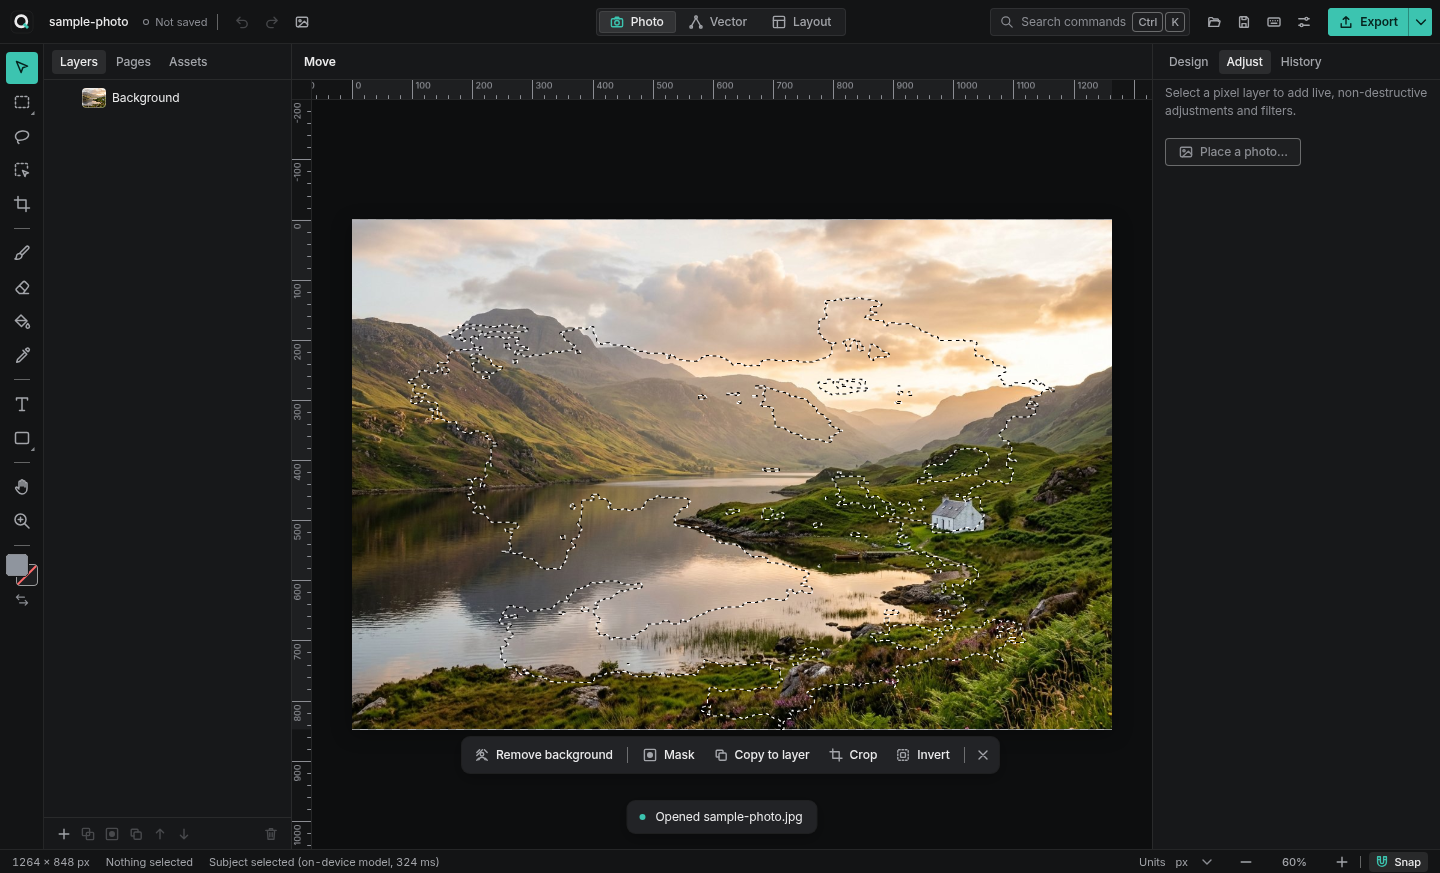
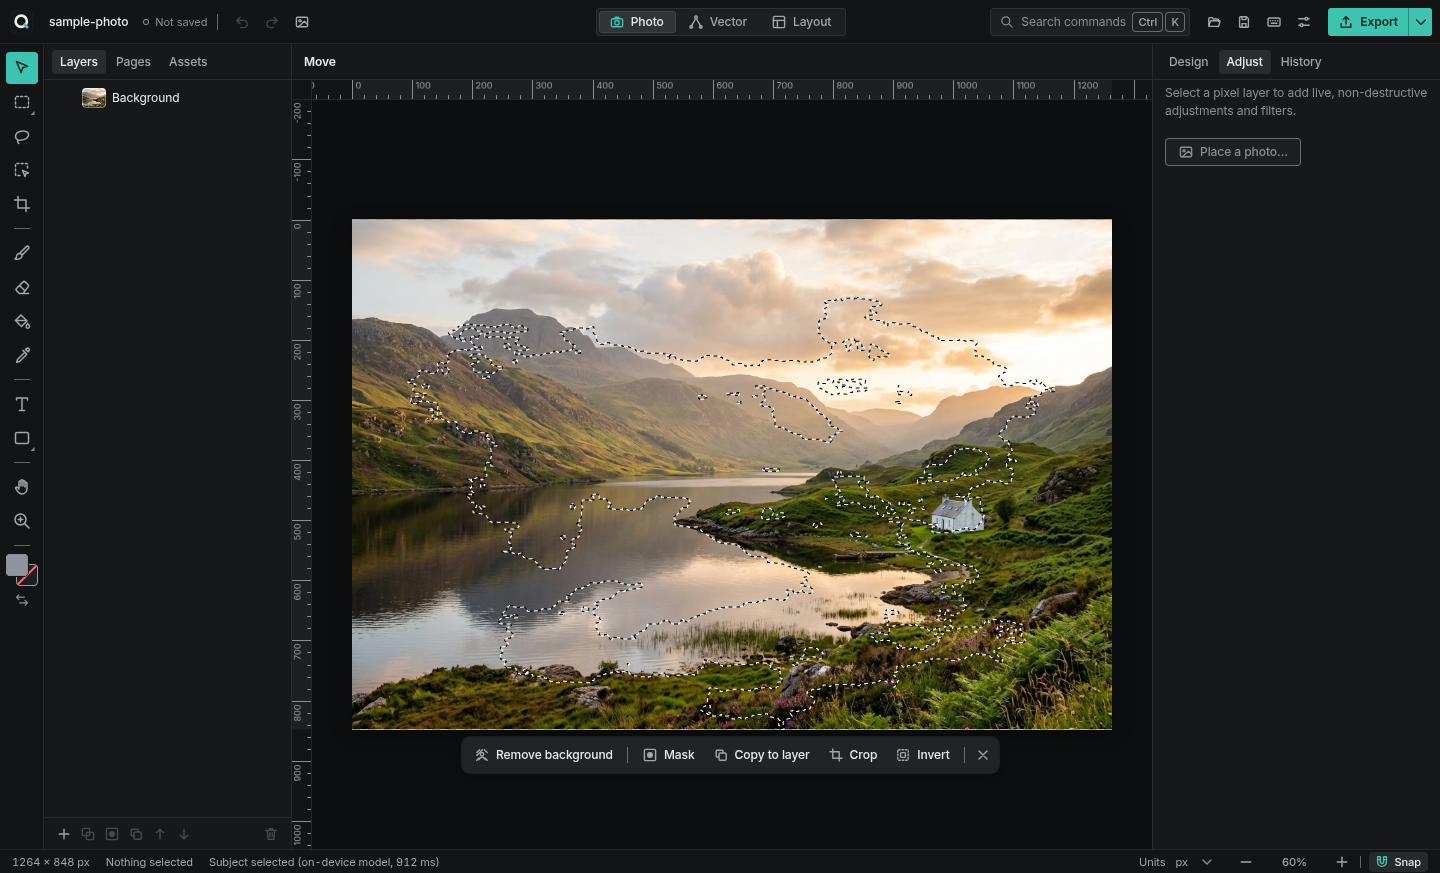
Critique-3 fixes: themed scrollbars (no native arrows), one Curves reset, Layout context bar no longer overflows, HC flyout checked vs focus, crop/click marker use theme handle tokens, crop shades image only, templates fit their text + overflow test

Changed region(s): [[0.4375, 0.9278, 0.5625, 0.9588], [0.3125, 0.3711, 0.375, 0.4021]]

diff --git a/src/renderer/engine/tools.ts b/src/renderer/engine/tools.ts
@@ -21,11 +21,11 @@ import {
 import { drawPage } from './draw';
 import { runCommand } from '../state/commands';
 import {
-  CROP_HANDLES, cursorFor, handlePoints, hitCrop, moveWithin, rectFromDrag, resizeCrop, roundCrop, type CropHit, type CropRect,
+  cursorFor, hitCrop, moveWithin, rectFromDrag, resizeCrop, roundCrop, type CropHit, type CropRect,
 } from '../../core/crop';
 import { currentCrop, currentRatio, docBounds, setCropBox } from '../state/crop';
 import { uiPaint } from '../state/uiPaint';
-import { HANDLE_SIZE, SELECTION_COLOR } from './controls';
+import { HANDLE_SIZE } from './controls';
 import { objectSelectClick, objectSelectMarkers } from './objectSelect';
 
 export interface ToolContext {
@@ -846,7 +846,9 @@ class CropTool implements Tool {
     ctx.save();
     ctx.fillStyle = this.drag ? 'rgba(0,0,0,0.42)' : 'rgba(0,0,0,0.58)';
     const p = new Path2D();
-    p.rect(-1e5, -1e5, 2e5, 2e5);
+    // shade the image outside the box only; the pasteboard stays untouched
+    const page = docBounds() ?? { x: -1e5, y: -1e5, w: 2e5, h: 2e5 };
+    p.rect(page.x, page.y, page.w, page.h);
     p.rect(r.x, r.y, r.w, r.h);
     ctx.fill(p, 'evenodd');
     const overlay = this.c.editor.ui.toolOptions.cropOverlay;
@@ -888,33 +890,42 @@ class CropTool implements Tool {
     ctx.lineWidth = 1;
     ctx.strokeStyle = 'rgba(0,0,0,0.35)';
     ctx.strokeRect(x0 - 1, y0 - 1, x1 - x0 + 2, y1 - y0 + 2);
-    ctx.strokeStyle = '#ffffff';
+    const oc = vp.overlayColors;
+    ctx.strokeStyle = oc.ring;
     ctx.strokeRect(x0, y0, x1 - x0, y1 - y0);
-    // Lightroom-style corner brackets make the corners read as grabbable
+    // one handle vocabulary (theme handle token): L-brackets on the corners, short bars on the edges
     const L = Math.min(16, (x1 - x0) / 3, (y1 - y0) / 3);
-    ctx.lineWidth = 3;
+    const bar = (cx: number, cy: number, horizontal: boolean) => {
+      const len = 12;
+      const th = 3;
+      const w = horizontal ? len : th;
+      const h = horizontal ? th : len;
+      ctx.fillStyle = oc.ring;
+      ctx.fillRect(Math.round(cx - w / 2) - 1, Math.round(cy - h / 2) - 1, w + 2, h + 2);
+      ctx.fillStyle = oc.handle;
+      ctx.fillRect(Math.round(cx - w / 2), Math.round(cy - h / 2), w, h);
+    };
     ctx.lineCap = 'butt';
-    ctx.beginPath();
     for (const [cx, cy, sx, sy] of [[x0, y0, 1, 1], [x1, y0, -1, 1], [x1, y1, -1, -1], [x0, y1, 1, -1]]) {
-      ctx.moveTo(cx - sx * 1, cy + sy * L);
-      ctx.lineTo(cx - sx * 1, cy - sy * 1);
-      ctx.lineTo(cx + sx * L, cy - sy * 1);
+      ctx.beginPath();
+      ctx.moveTo(cx - sx, cy + sy * L);
+      ctx.lineTo(cx - sx, cy - sy);
+      ctx.lineTo(cx + sx * L, cy - sy);
+      ctx.lineWidth = 5;
+      ctx.strokeStyle = oc.ring;
+      ctx.stroke();
+      ctx.lineWidth = 3;
+      ctx.strokeStyle = oc.handle;
+      ctx.stroke();
     }
-    ctx.stroke();
-    // 8 square handles, as the selection chrome (DESIGN.md section 8)
-    const pts = handlePoints({ x: a.x, y: a.y, w: b.x - a.x, h: b.y - a.y });
-    const half = (HANDLE_SIZE - 1) / 2;
     ctx.lineWidth = 1;
-    ctx.strokeStyle = SELECTION_COLOR;
-    ctx.fillStyle = '#ffffff';
-    for (const h of CROP_HANDLES) {
-      if ((h === 'n' || h === 's') && x1 - x0 < HANDLE_SIZE * 4) continue;
-      if ((h === 'e' || h === 'w') && y1 - y0 < HANDLE_SIZE * 4) continue;
-      const q = pts[h];
-      const x = Math.round(q.x) - half + 0.5;
-      const y = Math.round(q.y) - half + 0.5;
-      ctx.fillRect(x, y, HANDLE_SIZE - 1, HANDLE_SIZE - 1);
-      ctx.strokeRect(x, y, HANDLE_SIZE - 1, HANDLE_SIZE - 1);
+    if (x1 - x0 >= HANDLE_SIZE * 4) {
+      bar((x0 + x1) / 2, y0, true);
+      bar((x0 + x1) / 2, y1, true);
+    }
+    if (y1 - y0 >= HANDLE_SIZE * 4) {
+      bar(x0, (y0 + y1) / 2, false);
+      bar(x1, (y0 + y1) / 2, false);
     }
     if (this.drag) {
       const q = roundCrop(r);
@@ -924,11 +935,11 @@ class CropTool implements Tool {
       const tw = ctx.measureText(label).width + 12;
       const cx = (x0 + x1) / 2;
       const by = Math.min(y1 + 10, vp.canvas.getHeight() - 24);
-      ctx.fillStyle = SELECTION_COLOR;
+      ctx.fillStyle = oc.handle;
       ctx.beginPath();
       ctx.roundRect(Math.round(cx - tw / 2), Math.round(by), Math.round(tw), 18, 4);
       ctx.fill();
-      ctx.fillStyle = '#06231e';
+      ctx.fillStyle = oc.ring === '#000000' ? '#000000' : '#06231e';
       ctx.textAlign = 'center';
       ctx.textBaseline = 'middle';
       ctx.fillText(label, Math.round(cx), Math.round(by) + 9.5);
@@ -986,14 +997,15 @@ class ObjectSelectTool implements Tool {
     if (!marks.length) return;
     const vp = this.c.viewport;
     ctx.save();
+    const oc = vp.overlayColors;
     for (const m of marks) {
       const q = vp.sceneToScreen(m.x, m.y);
       ctx.beginPath();
       ctx.arc(Math.round(q.x) + 0.5, Math.round(q.y) + 0.5, 4.5, 0, Math.PI * 2);
-      ctx.fillStyle = m.positive ? SELECTION_COLOR : '#ff6b4a';
+      ctx.fillStyle = m.positive ? oc.handle : '#ff6b4a';
       ctx.fill();
       ctx.lineWidth = 1.5;
-      ctx.strokeStyle = '#ffffff';
+      ctx.strokeStyle = oc.ring;
       ctx.stroke();
     }
     ctx.restore();

diff --git a/src/core/templates.ts b/src/core/templates.ts
@@ -111,7 +111,7 @@ function poster(size: { w: number; h: number }, unit: 'mm' | 'in', title: string
     b.frame(p, x, H * 0.07, W - 2 * x, 24, 'NORTHFIELD ACADEMY PRESENTS', { fontFamily: SANS, fontSize: W * 0.022, fontWeight: 600, letterSpacing: 120, fill: solid('#aab4c8') });
     b.frame(p, x, H * 0.2, W - 2 * x, H * 0.34, 'Year 8\nScience\nFair', { fontFamily: SANS, fontSize: W * 0.135, fontWeight: 700, lineHeight: 0.98, fill: solid('#ffffff') });
     b.rect(p, x, H * 0.6 - 8, W * 0.18, 16, solid(CORAL), { name: 'Rule' });
-    b.frame(p, x, H * 0.65, W - 2 * x, H * 0.05, 'Thursday 14 March', { fontFamily: SANS, fontSize: W * 0.055, fontWeight: 700, fill: solid(NAVY) });
+    b.frame(p, x, H * 0.65, W - 2 * x, H * 0.058, 'Thursday 14 March', { fontFamily: SANS, fontSize: W * 0.055, fontWeight: 700, fill: solid(NAVY) });
     b.frame(p, x, H * 0.71, W - 2 * x, H * 0.035, '3:30 – 5:30 pm  ·  Main Hall', { fontFamily: SANS, fontSize: W * 0.032, fill: solid(NAVY) });
     b.frame(p, x, H * 0.77, W * 0.62, H * 0.12, 'Thirty projects from Year 8, from water filters to wind turbines. Families are welcome; judging starts at 5 pm.', { fontFamily: SANS, fontSize: W * 0.024, lineHeight: 1.45, fill: solid(INK_2) });
     b.line(p, x, H - M * 2 - 30, W - x, H - M * 2 - 30, '#c9c3b6', 1);
@@ -170,7 +170,7 @@ function certificate(): QuvreloDocument {
   b.frame(p, 80, 96, W - 160, 20, 'NORTHFIELD ACADEMY', { fontFamily: SANS, fontSize: 13, fontWeight: 600, letterSpacing: 200, align: 'center', fill: solid(GOLD) });
   b.frame(p, 80, 128, W - 160, 64, 'Certificate of Achievement', { fontFamily: SERIF, fontSize: 48, align: 'center', fill: solid(NAVY) });
   b.frame(p, 80, 214, W - 160, 28, 'awarded to', { fontFamily: SERIF, fontSize: 18, italic: true, align: 'center', fill: solid(INK_2) });
-  b.frame(p, 80, 250, W - 160, 64, 'Alex Morgan', { fontFamily: SERIF, fontSize: 50, align: 'center', fill: solid(NAVY) });
+  b.frame(p, 80, 246, W - 160, 72, 'Alex Morgan', { fontFamily: SERIF, fontSize: 50, align: 'center', fill: solid(NAVY) });
   b.line(p, W * 0.3, 326, W * 0.7, 326, GOLD, 1);
   b.frame(p, 140, 344, W - 280, 56, 'for outstanding work in Year 9 Art\nSpring term 2026', { fontFamily: SERIF, fontSize: 17, lineHeight: 1.5, align: 'center', fill: solid(INK_2) });
   b.ellipse(p, W / 2, H - 128, 76, 76, { type: 'none' }, { stroke: makeStroke(GOLD, 1.5), name: 'Seal' });
@@ -238,7 +238,7 @@ function slide(): QuvreloDocument {
   b.rect(p, 0, 0, 1920, 1080, solid('#14171c'), { name: 'Background' });
   b.frame(p, 120, 120, 1200, 40, 'YEAR 9 BIOLOGY  ·  LESSON 4 OF 6', { fontFamily: SANS, fontSize: 26, fontWeight: 600, letterSpacing: 120, fill: solid(AMBER) });
   b.frame(p, 120, 360, 1500, 150, 'Photosynthesis', { fontFamily: SANS, fontSize: 132, fontWeight: 700, lineHeight: 1.0, fill: solid('#f4f4f2') });
-  b.frame(p, 120, 530, 1300, 60, 'How plants turn light, water and carbon dioxide into food', { fontFamily: SANS, fontSize: 40, fill: solid('#a7adb7') });
+  b.frame(p, 120, 530, 1560, 64, 'How plants turn light, water and carbon dioxide into food', { fontFamily: SANS, fontSize: 40, fill: solid('#a7adb7') });
   b.line(p, 120, 900, 1800, 900, '#3a3f48', 2);
   b.frame(p, 120, 930, 900, 40, 'Mr D. Evans  ·  9C', { fontFamily: SANS, fontSize: 26, fill: solid('#a7adb7') });
   b.frame(p, 1000, 930, 800, 40, 'Tuesday 3 November', { fontFamily: SANS, fontSize: 26, align: 'right', fill: solid('#a7adb7') });

diff --git a/src/renderer/ui/ContextBar.tsx b/src/renderer/ui/ContextBar.tsx
@@ -72,8 +72,9 @@ function setDocSettings(patch: Partial<DocumentSettings>, label: string, key: st
 }
 
 /**
- * Layout with nothing selected: page navigation and page setup (margins, bleed,
- * columns, facing pages) right in the context bar, as in a DTP app.
+ * Layout with nothing selected: page navigation, margins and the facing-pages
+ * toggle in the context bar. Bleed, columns and gutter live in Document setup so
+ * the bar never overflows (CRITIQUE-3 N2).
  */
 function LayoutPageControls() {
   const ed = useEditor();
@@ -98,13 +99,8 @@ function LayoutPageControls() {
         <UnitNum label="R" title={s.facingPages ? 'Outside margin' : 'Right margin'} px={m.right} onChange={setMargin('right')} />
       </div>
       <div className="group">
-        <UnitNum label="Bleed" title="Bleed" px={s.bleed} onChange={(v) => setDocSettings({ bleed: v }, 'Bleed', 'bleed')} />
-        <CountNum label="Columns" title="Columns" value={s.columns} onChange={(v) => setDocSettings({ columns: v }, 'Columns', 'columns')} />
-        <UnitNum label="Gutter" title="Column gutter" px={s.columnGutter} onChange={(v) => setDocSettings({ columnGutter: v }, 'Gutter', 'gutter')} />
         <button className={`btn ${s.facingPages ? 'selected' : ''}`} aria-pressed={s.facingPages} data-tip="Show pages as two-page spreads" onClick={() => setDocSettings({ facingPages: !s.facingPages }, 'Facing pages', 'facing')}><Icon name="pages" /> Facing pages</button>
-      </div>
-      <div className="group">
-        <button className="btn" onClick={() => runCommand('file.document-setup')}>Document setup…</button>
+        <button className="btn ghost" data-tip="Bleed, columns and gutter" onClick={() => runCommand('file.document-setup')}>Margins &amp; columns…</button>
       </div>
     </>
   );

diff --git a/src/renderer/styles.css b/src/renderer/styles.css
@@ -882,8 +882,21 @@ kbd {
   font-weight: 400;
 }
 :root[data-theme='high-contrast'] .flyout-item.on {
-  background: #000;
-  box-shadow: inset 0 0 0 2px var(--c-accent);
+  /* checked = filled, focused = outlined: never the same treatment */
+  background: var(--c-accent);
+  color: #000;
+  box-shadow: none;
+}
+:root[data-theme='high-contrast'] .flyout-item.on svg.icon,
+:root[data-theme='high-contrast'] .flyout-item.on kbd {
+  color: #000;
+}
+:root[data-theme='high-contrast'] .flyout-item:focus-visible {
+  outline: 3px solid var(--c-focus);
+  outline-offset: 2px;
+}
+:root[data-theme='high-contrast'] .flyout-item.on:focus-visible {
+  outline-color: #fff;
 }
 @keyframes flyout-in {
   from {
@@ -1229,23 +1242,15 @@ kbd {
 .canvas-area > .ruler.v { grid-area: 2 / 1; }
 .canvas-area > .viewport { grid-area: 2 / 2; }
 
-/* thin, quiet scrollbars */
-* {
-  scrollbar-width: thin;
-  scrollbar-color: var(--c-line-strong) transparent;
-}
-::-webkit-scrollbar {
-  width: 10px;
-  height: 10px;
-}
-::-webkit-scrollbar-thumb {
-  background: var(--c-line-strong);
-  border-radius: var(--r-full);
-  border: 3px solid transparent;
-  background-clip: content-box;
-}
-::-webkit-scrollbar-corner {
-  background: transparent;
+/* Themed scrollbars live in the "scrollbars (themed)" block below. The standard
+   scrollbar-width/-color properties would override ::-webkit-scrollbar in
+   Chromium 121+ and bring back the native arrows, so only engines without the
+   WebKit pseudo-element get them. */
+@supports not selector(::-webkit-scrollbar) {
+  * {
+    scrollbar-width: thin;
+    scrollbar-color: var(--c-line-strong) transparent;
+  }
 }
 
 /* ---------- curves editor ---------- */

diff --git a/tests/unit/templates.test.ts b/tests/unit/templates.test.ts
@@ -3,6 +3,7 @@ import { TEMPLATES } from '../../src/core/templates';
 import { allContainers, findNode, walk } from '../../src/core/document';
 import { pageToSvg } from '../../src/core/svg';
 import { migrateDocument } from '../../src/core/migrate';
+import { flowStory, type MeasureFn } from '../../src/core/textflow';
 
 describe('templates', () => {
   it('has a classroom pack', () => {
@@ -21,6 +22,22 @@ describe('templates', () => {
       });
       for (const s of Object.values(d.stories)) for (const f of s.chain) expect(findNode(d, f)).not.toBeNull();
       for (const p of d.pages) expect(pageToSvg(d, p)).toContain('<svg');
+    });
+  }
+
+  // A bundled template must open without an overflow port. Inter-like metrics: a pessimistic
+  // 0.58 em per character (0.62 for bold) so a pass here also passes with the real font.
+  const measure: MeasureFn = (text, st) => text.length * st.fontSize * (st.fontWeight >= 600 ? 0.62 : 0.58);
+  for (const t of TEMPLATES) {
+    it(`${t.name} has no overflowing text frames`, () => {
+      const d = t.build();
+      const over: string[] = [];
+      for (const [sid, story] of Object.entries(d.stories)) {
+        const frames = story.chain.map((fid) => findNode(d, fid)?.node).filter((n): n is NonNullable<typeof n> & { type: 'textframe' } => !!n && n.type === 'textframe');
+        const r = flowStory(story.text, story.style, frames.map((f) => ({ id: f.id, w: f.w, h: f.h, padding: f.padding, columns: f.columns, columnGap: f.columnGap })), measure);
+        if (r.overflow) over.push(`${sid}: ${JSON.stringify(story.text.slice(0, 40))}`);
+      }
+      expect(over).toEqual([]);
     });
   }
 });

diff --git a/src/renderer/ui/panels/AdjustmentsPanel.tsx b/src/renderer/ui/panels/AdjustmentsPanel.tsx
@@ -144,7 +144,8 @@ export function AdjustmentsPanel() {
             <header>
               <input type="checkbox" checked={a.enabled} aria-label={`Enable ${spec.label}`} onChange={(e) => update(a.id, { enabled: e.target.checked })} />
               <span>{spec.label}</span>
-              <button className="icon-btn sm" aria-label={`Reset ${spec.label}`} data-tip="Reset" onClick={() => update(a.id, { params: defaultParams(a.type), curves: undefined })}><Icon name="undo" /></button>
+              {/* Curves keeps its reset beside the channel switch, so there is one reset per scope */}
+              {a.type !== 'curves' && <button className="icon-btn sm" aria-label={`Reset ${spec.label}`} data-tip="Reset" onClick={() => update(a.id, { params: defaultParams(a.type), curves: undefined })}><Icon name="undo" /></button>}
               <button className="icon-btn sm" aria-label={`Remove ${spec.label}`} data-tip="Remove" onClick={() => setAdjustments(n, n.adjustments.filter((x) => x.id !== a.id))}><Icon name="trash" /></button>
             </header>
             {a.type === 'curves' && (

diff --git a/tests/e2e/canvas.spec.ts b/tests/e2e/canvas.spec.ts
@@ -139,7 +139,7 @@ test.describe('canvas chrome', () => {
     await expect(page.locator('input[aria-label="Curve point output"]')).toHaveValue('0');
     await expect(page.locator('input[aria-label="Curve point output"]')).toBeEnabled();
     // Reset sits beside the channel switch, not inside it, and is off while the curve is straight
-    const reset = page.getByRole('button', { name: 'Reset the R curve' });
+    const reset = page.getByRole('button', { name: 'Reset R curve' });
     await expect(reset).toBeDisabled();
     expect(await page.locator('[role="radiogroup"][aria-label="Curve channel"] button').count()).toBe(4);
     await graph.click({ position: { x: box.width * 0.25, y: box.height * 0.75 } });

diff --git a/tests/unit/shellLint.test.ts b/tests/unit/shellLint.test.ts
@@ -87,4 +87,12 @@ describe('shell lint', () => {
     }
     expect(bad).toEqual([]);
   });
+
+  it('keeps the themed WebKit scrollbar: standard scrollbar-width/-color only inside @supports not selector(::-webkit-scrollbar)', () => {
+    const css = fs.readFileSync(path.resolve('src/renderer/styles.css'), 'utf8');
+    expect(css).toContain('::-webkit-scrollbar-thumb');
+    const stripped = css.replace(/@supports not selector\(::-webkit-scrollbar\)\s*\{[\s\S]*?\n\}/g, '');
+    const bad = stripped.split('\n').filter((l) => /scrollbar-(color|width)\s*:/.test(l) && !/scrollbar-width:\s*none/.test(l));
+    expect(bad).toEqual([]);
+  });
 });

diff --git a/src/renderer/ui/panels/CurvesEditor.tsx b/src/renderer/ui/panels/CurvesEditor.tsx
@@ -325,8 +325,8 @@ export function CurvesEditor({ node, adj, onChange, onBegin, onEnd }: {
         <button
           type="button"
           className="icon-btn sm curves-reset"
-          aria-label={`Reset the ${LABEL[channel]} curve`}
-          data-tip={`Reset the ${LABEL[channel]} curve`}
+          aria-label={`Reset ${LABEL[channel]} curve`}
+          data-tip={`Reset ${LABEL[channel]} curve`}
           disabled={identity}
           onClick={() => { commit([{ x: 0, y: 0 }, { x: 255, y: 255 }], `curves:${adj.id}:reset`); setSelected(null); }}
         >

diff --git a/src/renderer/engine/Viewport.ts b/src/renderer/engine/Viewport.ts
@@ -82,6 +82,10 @@ export class Viewport {
   private lastTheme = '';
   /** canvas overlay colours for the current theme (refreshed on theme change in sync) */
   private ov: OverlayColors = readOverlayColors();
+  /** current theme's canvas overlay colours (tools draw crop handles and click markers with these) */
+  get overlayColors(): OverlayColors {
+    return this.ov;
+  }
   private lastContainer: Id | null = null;
   private syncingSelection = false;
   private tool: Tool;
